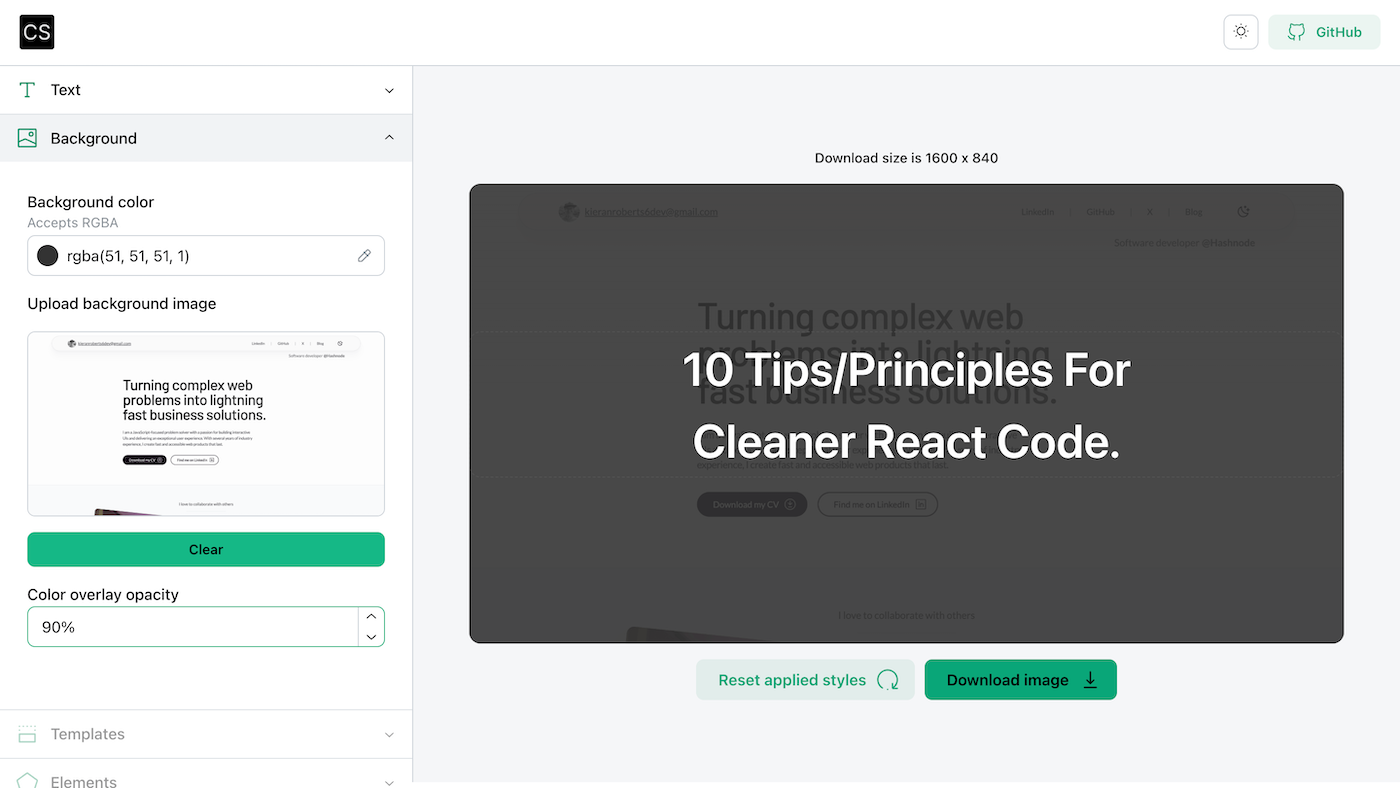
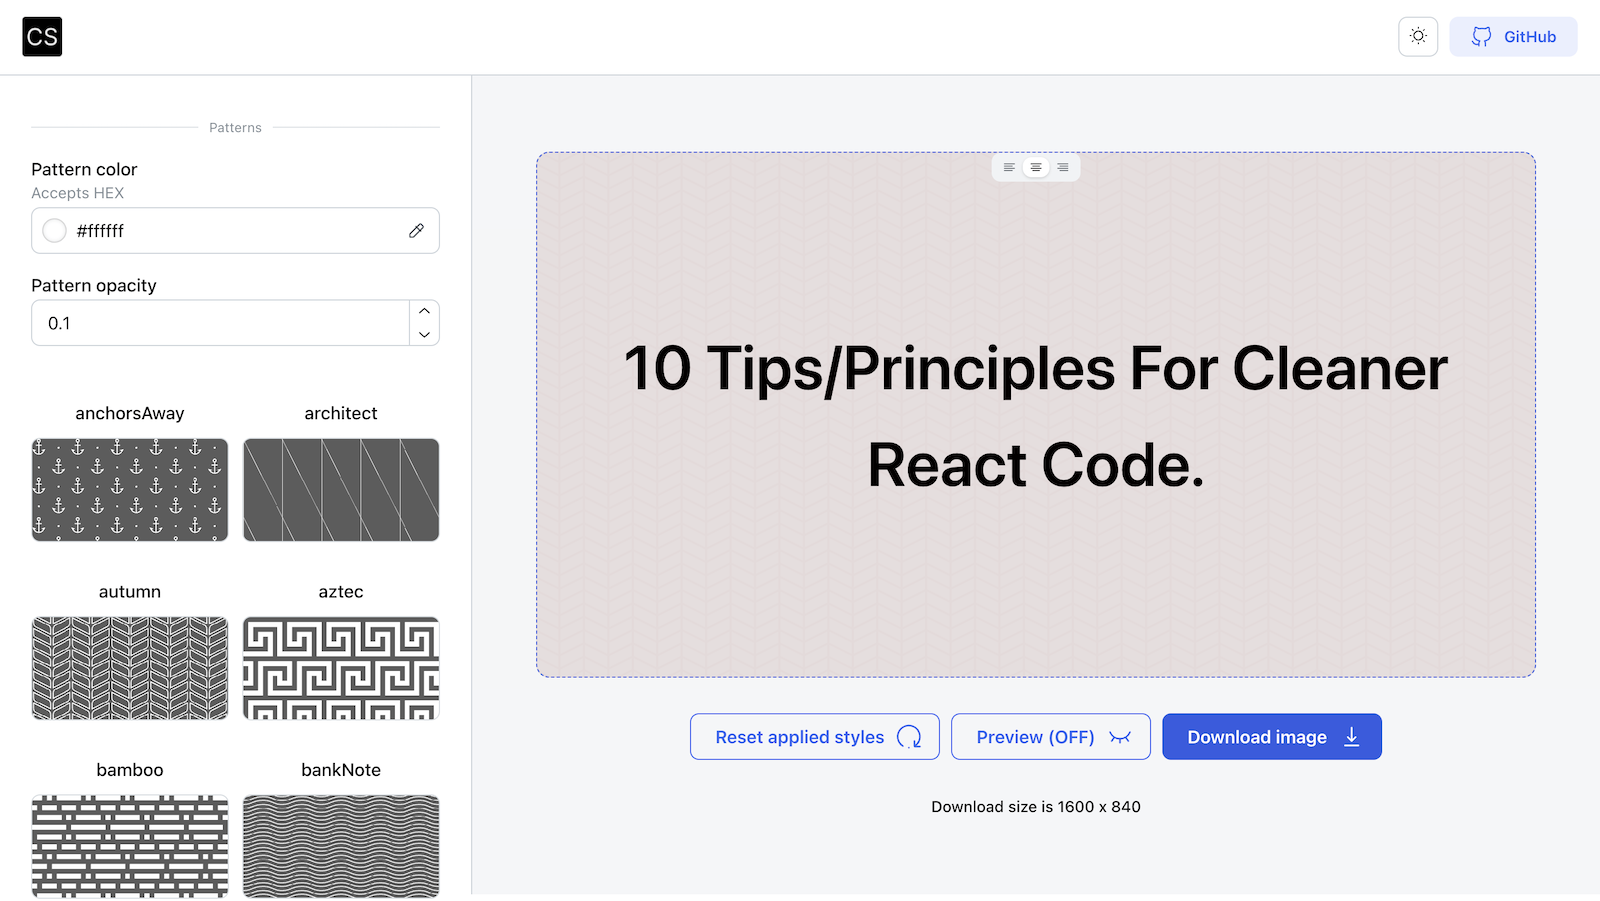
style: theme change

diff --git a/app/components/DrawerEditing/BackgroundSection.tsx b/app/components/DrawerEditing/BackgroundSection.tsx
@@ -166,7 +166,7 @@ export function DrawerBackgroundSection() {
                 component="span"
                 fw={500}
                 ta="center"
-                c={isSelected ? 'var(--mantine-primary-color-filled)' : 'var(--mantine-color-scheme)'}
+                c={isSelected ? 'var(--mantine-primary-color-light-color)' : 'var(--mantine-color-scheme)'}
               >
                 {key}
               </Text>
@@ -176,12 +176,15 @@ export function DrawerBackgroundSection() {
                   radius="md"
                   className={classes.patternCard}
                   style={{
-                    backgroundImage: value(backgroundPattern.color, 1)
+                    backgroundImage: value(backgroundPattern.color, 1),
+                    border: isSelected
+                      ? '1px solid var(--mantine-primary-color-light-color)'
+                      : '1px solid var(--mantine-color-default-border)'
                   }}
                 >
                   {isSelected && (
                     <Center className={classes['patternCard-selected']}>
-                      <Text component="span" fw={500} c="var(--mantine-primary-color-filled)">
+                      <Text component="span" fw={500} c="var(--mantine-primary-color-light-color)">
                         <Check width={32} height={32} />
                       </Text>
                     </Center>

diff --git a/app/components/GitHubStarButton.tsx b/app/components/GitHubStarButton.tsx
@@ -13,14 +13,7 @@ export function GitHubStarButton({
   size?: 'sm' | 'md';
 } & ButtonProps) {
   return (
-    <Button
-      component={Link}
-      target="_blank"
-      to={GITHUB_URL}
-      size={size}
-      color="var(--mantine-primary-color-7)"
-      {...props}
-    >
+    <Button component={Link} target="_blank" to={GITHUB_URL} size={size} {...props}>
       <Flex align="center" gap="xs">
         <Github width={20} /> GitHub
       </Flex>

diff --git a/app/root.tsx b/app/root.tsx
@@ -28,6 +28,8 @@ export const links: LinksFunction = () => [
 const theme = createTheme({
   autoContrast: true,
   luminanceThreshold: 0.3,
+  primaryColor: 'indigo',
+  primaryShade: 7,
   components: {
     Text: {
       defaultProps: {
@@ -88,8 +90,7 @@ const theme = createTheme({
       }
     }
   },
-  defaultRadius: 'md',
-  primaryColor: 'teal'
+  defaultRadius: 'md'
 });
 
 export function Layout({ children }: { children: React.ReactNode }) {

diff --git a/app/routes/create/route.tsx b/app/routes/create/route.tsx
@@ -133,7 +133,7 @@ export default function Create() {
           </Anchor>
           <Flex gap="xs">
             <ColorSchemeToggle />
-            <GitHubStarButton visibleFrom="md" size="sm" variant="outline" />
+            <GitHubStarButton visibleFrom="md" size="sm" variant="light" />
             <MobileGithubButton />
           </Flex>
         </Flex>

diff --git a/app/components/DrawerEditing/BackgroundSection.module.css b/app/components/DrawerEditing/BackgroundSection.module.css
@@ -4,12 +4,10 @@
   background-position: top;
   background-repeat: repeat;
   aspect-ratio: 1.9;
-  border: 1px solid var(--mantine-color-default-border);
   position: relative;
   overflow: hidden;
   height: 100%;
   width: 100%;
-  border: 1px solid var(--mantine-color-default-border);
   opacity: 0.8;
   transition: opacity 0.2s ease-in-out;
 }
